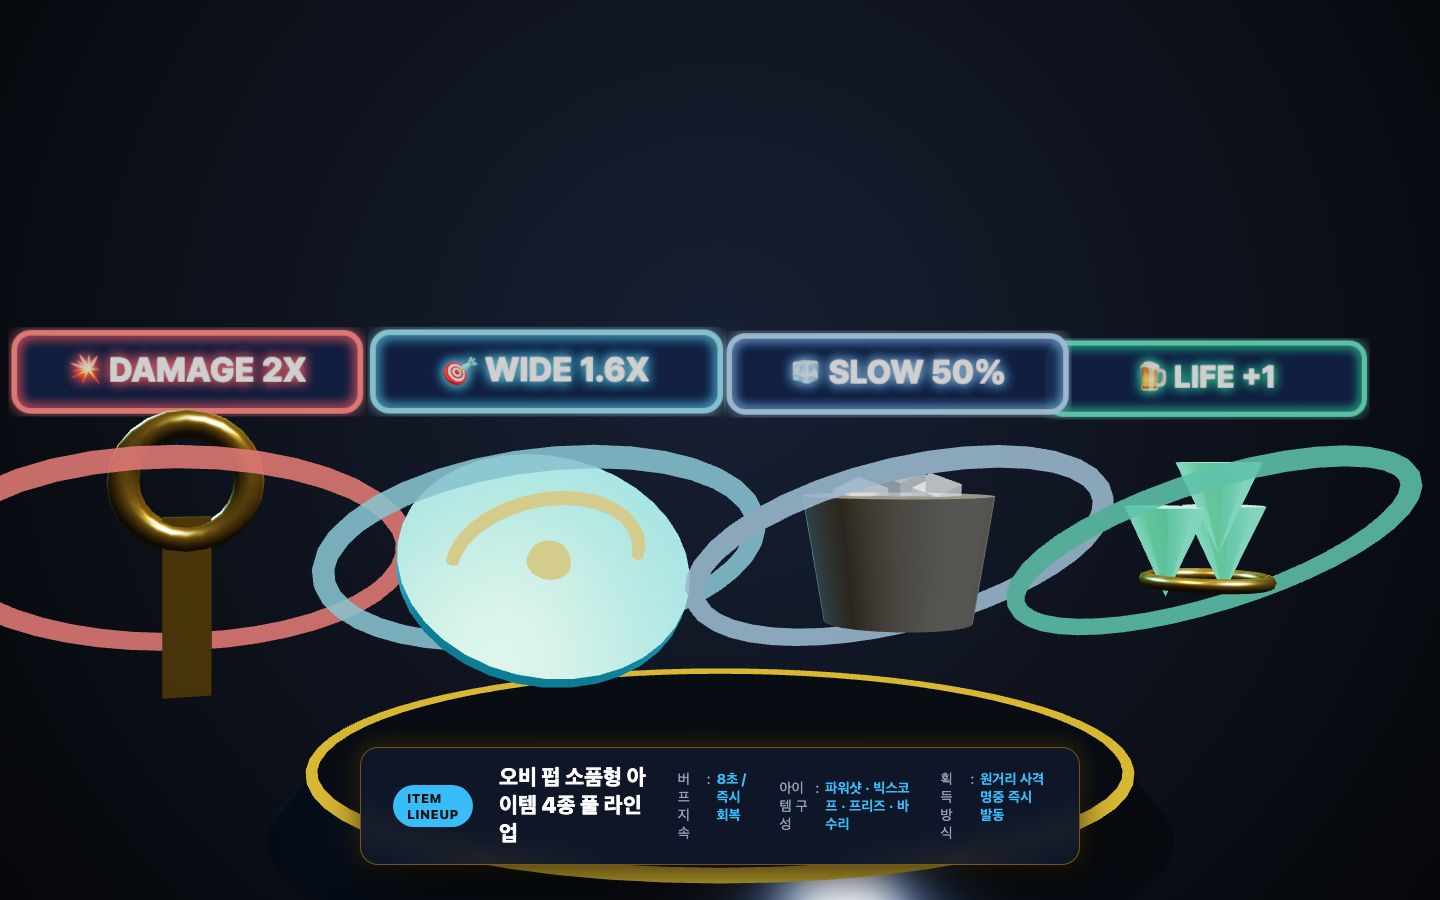
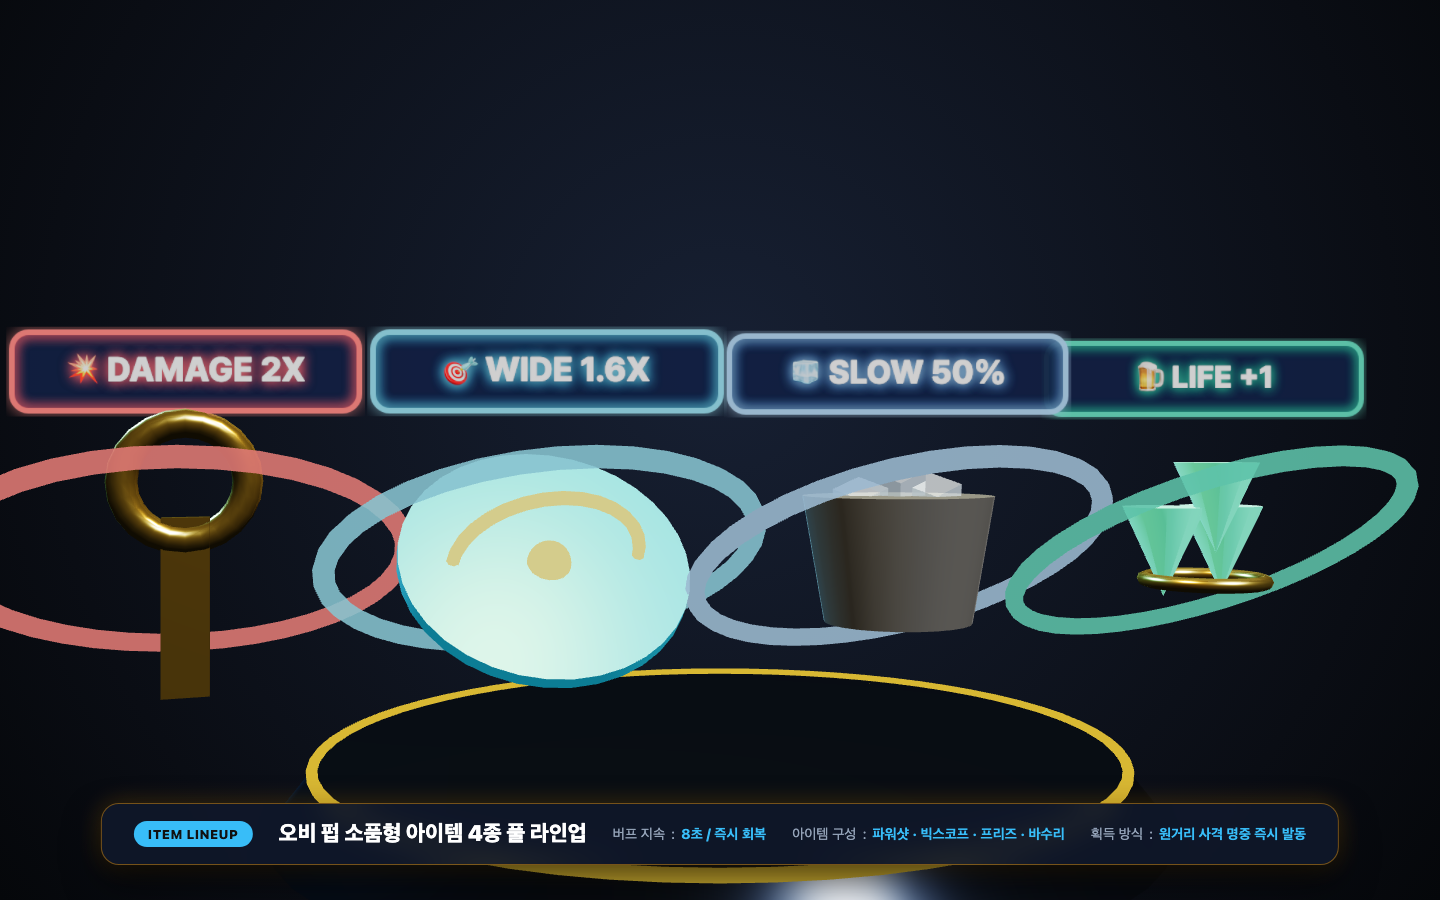
docs(studio): match monster cards to the real tables and stop their line wraps
- Correct HP, speed, score and role text and add a test that keeps them in sync
- Recapture the studio shots and record the unplanned work in a retroactive plan

diff --git a/docs/monster-studio.html b/docs/monster-studio.html
@@ -25,6 +25,8 @@
     }
     #info-card {
       position: absolute;
+      width: max-content;
+      max-width: 96vw;
       bottom: 35px;
       left: 50%;
       transform: translateX(-50%);
@@ -40,6 +42,7 @@
       z-index: 10;
     }
     .badge {
+      white-space: nowrap;
       padding: 5px 14px;
       border-radius: 99px;
       font-size: 13px;
@@ -48,8 +51,8 @@
       color: #111;
       letter-spacing: 0.5px;
     }
-    .name { font-size: 22px; font-weight: 900; color: #fff; }
-    .stat { font-size: 14px; color: #94a3b8; display: flex; gap: 6px; }
+    .name { font-size: 22px; font-weight: 900; color: #fff; white-space: nowrap; }
+    .stat { font-size: 14px; color: #94a3b8; display: flex; gap: 6px; white-space: nowrap; }
     .stat b { color: #38bdf8; }
   </style>
 </head>
@@ -435,20 +438,20 @@
     }
 
     const MONSTER_SPECS = {
-      pilgood: { badge: 'SPEED · 공중 활공', name: '필굿 (FiLGOOD)', hp: '1', speed: '4.2 m/s', score: '+30점', color: '#00a8e8' },
-      caslight: { badge: 'FLYING · 공중 비행', name: '카스 라이트 (Cass Light)', hp: '1', speed: '3.6 m/s', score: '+40점', color: '#38bdf8' },
-      obi: { badge: 'TANK · 지상 바운스', name: '오비 라거 (OB Lager)', hp: '2', speed: '3.0 m/s', score: '+70점', color: '#f59e0b' },
-      hanmac: { badge: 'ELITE · 지상 바운스', name: '한맥 (HANMAC)', hp: '2', speed: '3.2 m/s', score: '+90점', color: '#047857' },
-      bottle: { badge: 'HEAVY · 투명 유리병', name: '카스 프레시 병맥주 (Cass Fresh Bottle)', hp: '3', speed: '2.3 m/s', score: '+160점', color: '#004b91' },
-      boss: { badge: 'BOSS · 보스 레이드', name: '업소용 생맥주 냉각기 (Boss)', hp: '70~90', speed: '0.85 m/s', score: '+1,500점', color: '#ef4444' },
-      'boss-king': { badge: 'BOSS · 7웨이브', name: '대왕 냉각기 (King)', hp: '200', speed: '0.85 m/s', score: '+1,500점', color: '#fbbf24' }
+      pilgood: { badge: 'SPEED · 지상 돌진', name: '필굿 (FiLGOOD)', hp: '1', speed: '2.6 m/s', score: '+3점', color: '#00a8e8' },
+      caslight: { badge: 'FLYING · 공중 비행', name: '카스 라이트 (Cass Light)', hp: '1', speed: '2.4 m/s', score: '+4점', color: '#38bdf8' },
+      obi: { badge: 'SHIELD · 방패병', name: '오비 라거 (OB Lager)', hp: '2', speed: '2.2 m/s', score: '+7점', color: '#f59e0b' },
+      hanmac: { badge: 'BOMB · 처치 시 폭발', name: '한맥 (HANMAC)', hp: '3', speed: '2.0 m/s', score: '+9점', color: '#047857' },
+      bottle: { badge: 'SPLIT · 분열', name: '카스 프레시 병맥주 (Cass Fresh Bottle)', hp: '4', speed: '2.0 m/s', score: '+16점', color: '#004b91' },
+      boss: { badge: 'BOSS · 보스 레이드', name: '업소용 냉각기 (Boss)', hp: '70~90', speed: '0.85 m/s', score: '+150점', color: '#ef4444' },
+      'boss-king': { badge: 'BOSS · 7웨이브', name: '대왕 냉각기 (King)', hp: '200', speed: '0.85 m/s', score: '+150점', color: '#fbbf24' }
     };
 
     const ITEM_SPECS = {
-      power_shot: { badge: 'BUFF ITEM · 소품', name: '파워 샷 (황금 병따개)', dur: '8초 지속', effect: '사격 데미지 2배 증폭 (라거 원샷 원킬)', wave: 'Wave 2, 4, 5 출현', color: '#ef4444' },
-      wide_scope: { badge: 'BUFF ITEM · 소품', name: '빅 스코프 (맥주 코스터)', dur: '8초 지속', effect: '조준경 140px & 판정 반경 1.6배 확대', wave: 'Wave 1, 3, 4, 5 출현', color: '#38bdf8' },
-      ice_freeze: { badge: 'BUFF ITEM · 소품', name: '아이스 프리즈 (얼음 버킷)', dur: '8초 지속', effect: '모든 몬스터 이동속도 50% 감속', wave: 'Wave 3, 4, 5 출현', color: '#60a5fa' },
-      bar_repair: { badge: 'INSTANT · 소품', name: '바 수리 (홉 열매 다발)', dur: '즉시 발동', effect: '바 방어선 체력 +1 즉시 회복 (최대 5)', wave: 'Wave 2, 3, 4, 5 출현', color: '#10b981' },
+      power_shot: { badge: 'BUFF ITEM · 소품', name: '파워 샷 (황금 병따개)', dur: '8초 지속', effect: '사격 데미지 2배 증폭', wave: '처치 시 드롭', color: '#ef4444' },
+      wide_scope: { badge: 'BUFF ITEM · 소품', name: '빅 스코프 (맥주 코스터)', dur: '8초 지속', effect: '조준경 및 명중 반경 1.6배 확대', wave: '처치 시 드롭', color: '#38bdf8' },
+      ice_freeze: { badge: 'BUFF ITEM · 소품', name: '아이스 프리즈 (얼음 버킷)', dur: '8초 지속', effect: '모든 몬스터 이동속도 50% 감속', wave: '처치 시 드롭', color: '#60a5fa' },
+      bar_repair: { badge: 'INSTANT · 소품', name: '바 수리 (홉 열매 다발)', dur: '즉시 발동', effect: '바 방어선 체력 +1 즉시 회복 (최대 5)', wave: '처치 시 드롭', color: '#10b981' },
     };
 
     let activeModel = null;
@@ -508,9 +511,9 @@
       document.getElementById('m-badge').textContent = 'MONSTER LINEUP';
       document.getElementById('m-badge').style.background = '#f59e0b';
       document.getElementById('m-name').textContent = '비어 크러셔 3D 실물 PBR 몬스터 6종 풀 라인업';
-      document.getElementById('m-hp').textContent = '1 ~ 40';
-      document.getElementById('m-speed').textContent = '1.10 ~ 4.2 m/s';
-      document.getElementById('m-score').textContent = '+30 ~ +1,500점';
+      document.getElementById('m-hp').textContent = '1 ~ 200';
+      document.getElementById('m-speed').textContent = '0.85 ~ 2.6 m/s';
+      document.getElementById('m-score').textContent = '+3 ~ +150점';
     };
 
     window.showItem = function(itemKind) {

diff --git a/tests/docs-sync.test.ts b/tests/docs-sync.test.ts
@@ -2,7 +2,7 @@ import { describe, it, expect } from 'vitest';
 import fs from 'node:fs';
 import path from 'node:path';
 import { GAME_TUNING } from '../src/shared/gameTuning';
-import { WEAPON_ARCHETYPE_SPECS } from '../src/shared/constants';
+import { TARGET_SPECS, WEAPON_ARCHETYPE_SPECS } from '../src/shared/constants';
 
 /** Guards against old specs creeping back into player-facing text (gameplay-polish P05-T02). */
 const FORBIDDEN: { pattern: RegExp; why: string }[] = [
@@ -236,5 +236,18 @@ describe('doc ranges and wording are derived from the tuned tables', () => {
   it('the tutorial guide does not claim R reloads (R fires the skill)', () => {
     const tutorial = fs.readFileSync('docs/튜토리얼_훈련장_가이드.md', 'utf8');
     expect(tutorial).not.toMatch(/재장전\*\*: `R`/);
+  });
+});
+
+describe('monster studio info cards', () => {
+  it('match the real monster table', () => {
+    const html = fs.readFileSync('docs/monster-studio.html', 'utf8');
+    for (const kind of ['pilgood', 'caslight', 'obi', 'hanmac', 'bottle'] as const) {
+      const spec = TARGET_SPECS[kind];
+      const row = html.split('\n').find((l) => l.trim().startsWith(`${kind}: { badge:`))!;
+      expect(row).toContain(`hp: '${spec.maxHp}'`);
+      expect(row).toContain(`speed: '${spec.speedMps.toFixed(1)} m/s'`);
+      expect(row).toContain(`score: '+${Math.round(spec.killBonusScore * GAME_TUNING.score.scale)}점'`);
+    }
   });
 });

diff --git a/.memory/current.md b/.memory/current.md
@@ -1,13 +1,13 @@
 # Current Context
 
 ## Active Plan
-[판별 플레이 기록 저장과 결과 화면 랭킹](./plans/2026-11-05-play-records-and-result-ranking.md)
+[저레벨 보너스, 무대 정리, 도감 정리 (사후 기록)](./plans/2026-11-06-low-level-bonus-and-stage-cleanup.md)
 
 ## Active Phase
-[P03 검증](./phases/2026-11-05-play-records-and-result-ranking/P03-verify/phase.md)
+[P01 사후 기록](./phases/2026-11-06-low-level-bonus-and-stage-cleanup/P01-retroactive/phase.md)
 
 ## Active Task
-(이 계획의 Task 완료) 사람 플레이 대기
+없음
 
 ## Status
 - 2026-11-05 계획들의 사람 플레이 확인을 닫음(세 무기 클리어). 열린 활성 Task 없음.

diff --git a/.memory/phases/2026-11-06-low-level-bonus-and-stage-cleanup/P01-retroactive/phase.md b/.memory/phases/2026-11-06-low-level-bonus-and-stage-cleanup/P01-retroactive/phase.md
@@ -1,0 +1,14 @@
+# Phase: P01 사후 기록
+
+## Tasks
+| Task | Status | Summary | 커밋 |
+| :--- | :--- | :--- | :--- |
+| T01 | `done ✅` | 호박색 네온 막대 제거 | b2709b9 |
+| T02 | `done ✅` | 저레벨 클리어 보너스, 규칙 v5, 한맥 도감 표시 | bc0c191 |
+| T03 | `done ✅` | 전체 스크린샷 재촬영 | 5dfe2e1 |
+| T04 | `done ✅` | 도감 수치·줄바꿈 수정과 도감 사진 재촬영 | 이 Phase를 추가한 커밋 |
+
+## Progress
+- done: 4/4 (active: 없음)
+
+청사진 없이 진행했다. 사용자 승인은 대화에서 받았고 검증은 `npm test`, `npx tsc --noEmit`이다.

diff --git a/.memory/plans/2026-11-06-low-level-bonus-and-stage-cleanup.md b/.memory/plans/2026-11-06-low-level-bonus-and-stage-cleanup.md
@@ -1,0 +1,11 @@
+# Plan: 저레벨 클리어 보너스, 무대 막대 제거, 도감 정리 (사후 기록)
+
+## Goal
+계획 없이 바로 구현한 작업을 기록해 추적할 수 있게 한다. 구현보다 뒤에 작성한 문서다.
+
+근거 문서: [결정 문서](../decisions/2026-11-05-play-records.md) D08
+
+## Phases
+| Phase | Status | Summary | Blueprint |
+| :--- | :--- | :--- | :--- |
+| P01 | `done` | 이미 구현한 작업의 기록 | [P01](../phases/2026-11-06-low-level-bonus-and-stage-cleanup/P01-retroactive/phase.md) |
